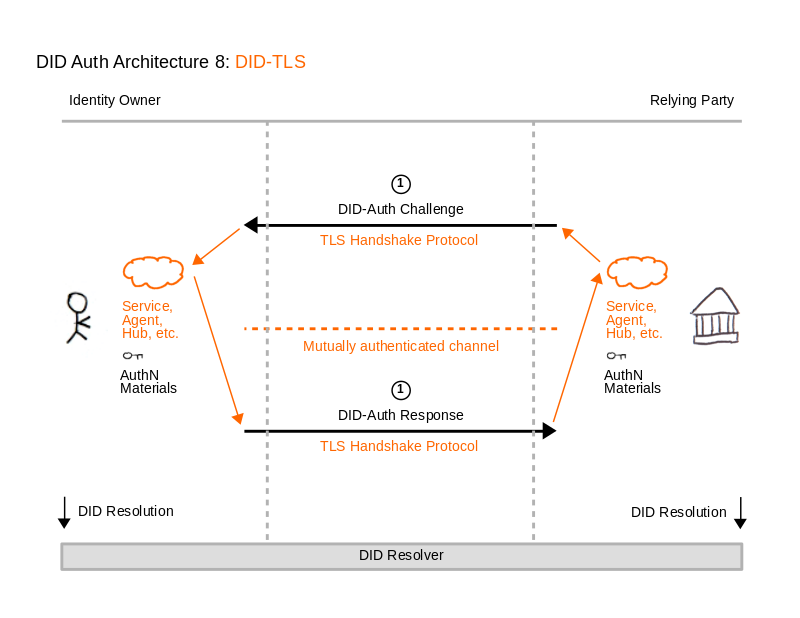
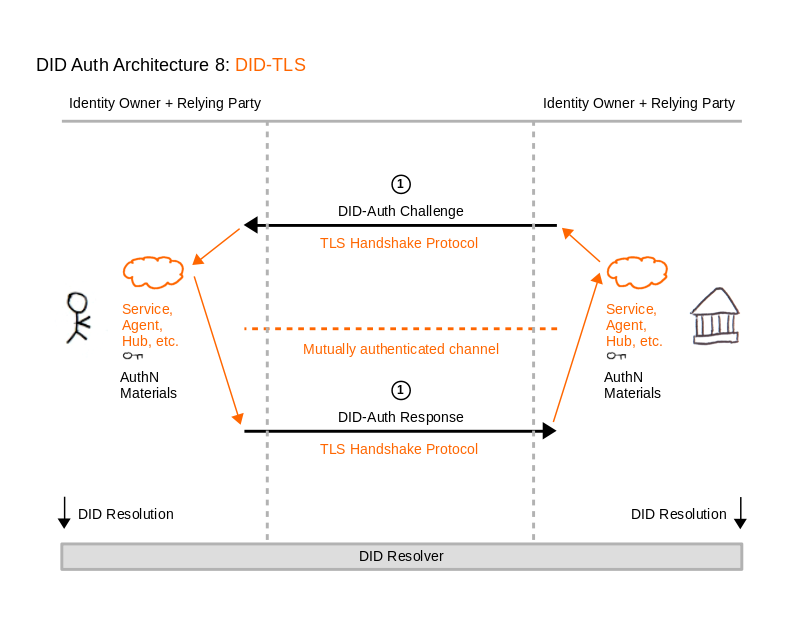
Adjust headers in DID Auth Architecture 8 diagram.

diff --git a/draft-documents/did_auth_draft.md b/draft-documents/did_auth_draft.md
@@ -475,7 +475,6 @@ References:
 ## DID Auth Architecture 8: DID-TLS
 
 ![DID Auth Diagram 8](./media/DID_Auth_Diagrams8.png)
-[[EDITME: This diagram should have its headers for identity owner and relying party adjusted. Maybe a person instead of a building on the right, too?]]
 
  1. Two **services** (or agents, or hubs, etc.) act as both _identity owner_ and _relying party_ and engage in TLS handshake where mutual challenges and responses are exchanged and verified.
 
